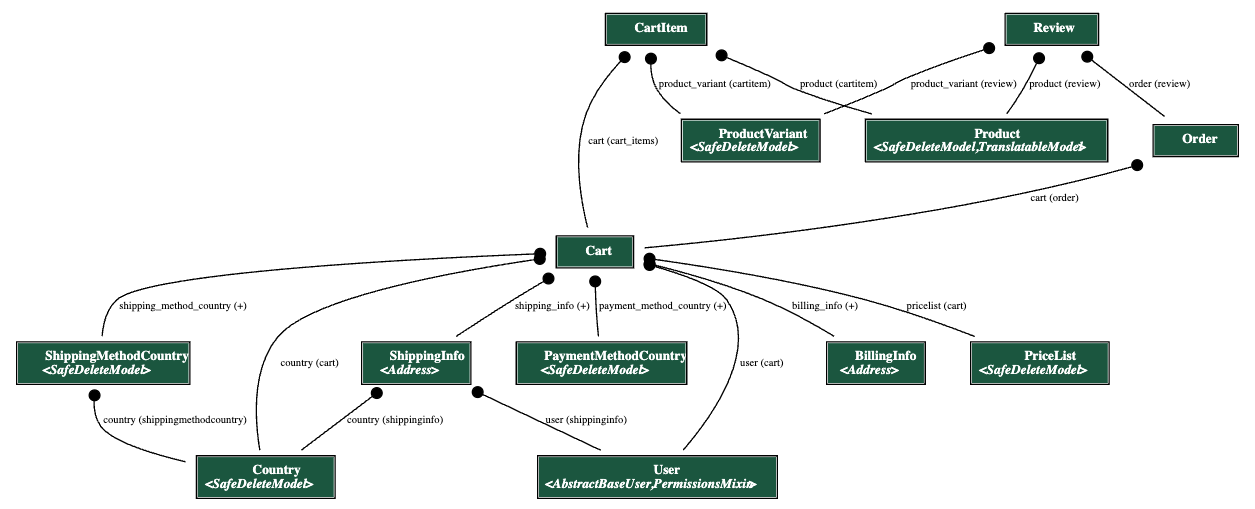
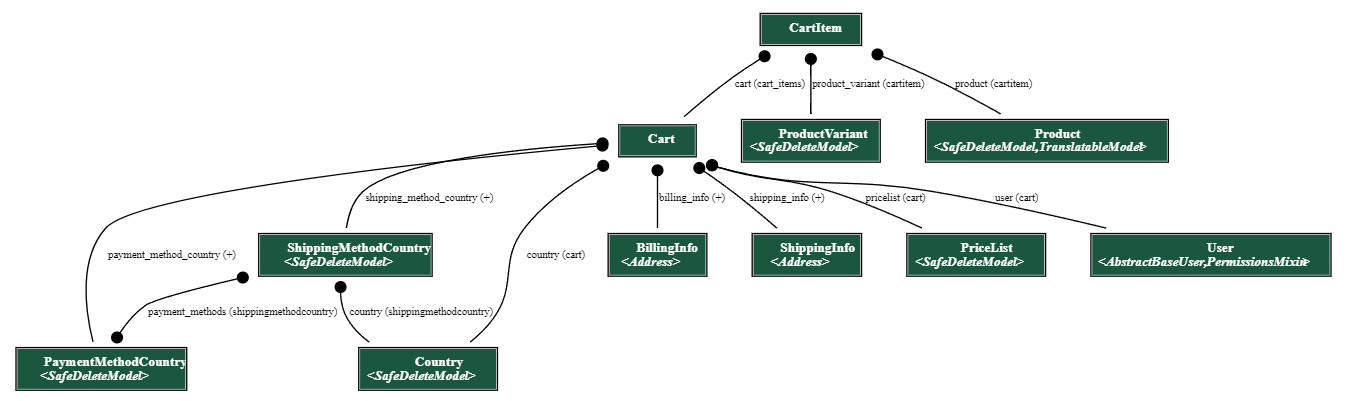
Backend > Order done

diff --git a/docs/_docs/programming/backend.md b/docs/_docs/programming/backend.md
@@ -83,7 +83,15 @@ Above is the diagram of the `Cart` model with its main relations to other models
 The `Cart` model is used to store user's cart. It has a FK to `User` model, which binds the cart to the user. It also has a FK to `ShippingMethodCountry` and `PaymentMethodCountry` models, which are used to store user's selected shipping and payment methods. 
 We also have a `CartItem` model, which represents concrete item in the cart and has a FK relation to `Cart`. Each `CartItem` also has a FK to `ProductVariant` and `Product` models, to bind the item with the concrete product.
 The `Cart` model also has relations to country specific models such as `Country`, `PriceList`, `PaymentMethodCountry` and `ShippingMethodCountry` to ensure that the cart is bind to the concrete country specific data.
-Once the user creates an order, new relation is created - a FK from `Order` model to `Cart`. We can see one more model in the diagram - `Review`. It's used to store user's reviews of products. It has a FK to `ProductVariant`, `Product` and `Order` models.
+
+
+## Order
+![Order model](../../images/models_order.png)
+
+Once the user creates an order, new relation is created - a FK from `Order` model to `Cart`. 
+We can see also another model in the diagram - `Review`, which is used to store user's reviews of products. It has a FK to `ProductVariant`, `Product` and `Order` models.
+Furthermore, there's also `OrderItemComplaint` model representing complaints (either warranty claim or request for return of an item), which has FK to `CartItem` and `Order` tables.
+
 ## User
 ![User model](../../images/models_user.png)
 
